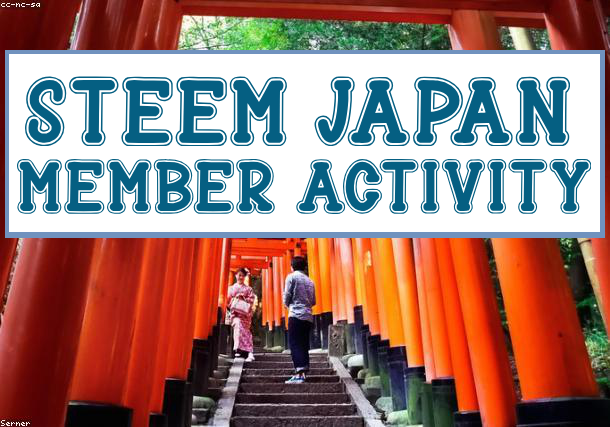
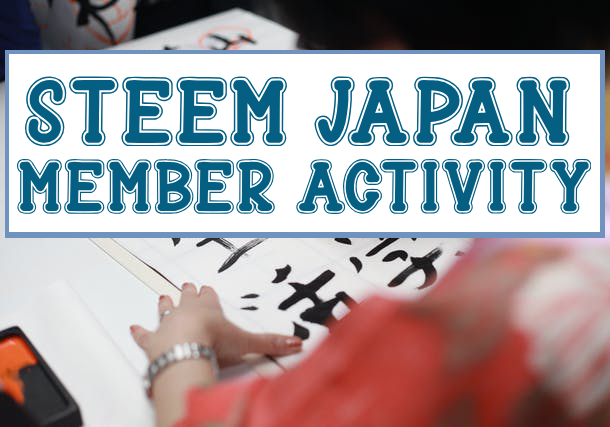
Change daily report image to use pexels.com API

diff --git a/tasks/steem_japan/steem_japan_report.py b/tasks/steem_japan/steem_japan_report.py
@@ -3,6 +3,8 @@ from datetime import datetime
 import os
 import urllib.request
 from PIL import Image
+import random
+from pexels_api import API
 
 from beem import Steem
 from beem.nodelist import NodeList
@@ -21,6 +23,8 @@ USERNAME = os.environ.get('USERNAME')
 STEEM = Steem(node=nodes, keys=[POST_KEY])
 set_shared_blockchain_instance(STEEM)
 IU = ImageUploader(blockchain_instance=STEEM)
+
+PEXELS_API_KEY = '563492ad6f917000010000016acbeee6e44d432392217f9f901098f4'
 
 
 def main():
@@ -99,7 +103,7 @@ def get_stats(discussions):
 
 
 def get_main_image():
-    # Download base image from loremflickr.com
+    # Download base image from pexels.com API
     # and store as report_base.png
 
     # Default Image URL
@@ -122,7 +126,22 @@ def get_main_image():
     opener.addheaders = [('User-Agent', user_agent)]
     urllib.request.install_opener(opener)
 
-    base_image_url = "https://loremflickr.com/610/427/japan"
+    # base_image_url = "https://loremflickr.com/610/427/japan"
+
+    # Pick a random page number
+    page_number = random.randint(1, 80)
+
+    # Search Japan image and access image data from pexels API
+    PEXELS_API = API(PEXELS_API_KEY)
+    PEXELS_API.search('japan', page=page_number, results_per_page=1)
+    photos = PEXELS_API.get_entries()
+
+    base_image_url = ''
+    image_params = '?auto=compress&cs=tinysrgb&fit=crop&h=427&w=610'
+    for photo in photos:
+        base_image_url = photo.landscape.split('?')[0]
+
+    base_image_url += image_params
 
     # Call urlretrieve function to get an image
     urllib.request.urlretrieve(base_image_url, f'{img_dir}/{base_img_file}')
@@ -144,7 +163,9 @@ def get_main_image():
     result = IU.upload(f'{img_dir}/{main_img_file}', USERNAME)
     img_url = result['url']
 
-    return img_url
+    return {
+        'url': img_url,
+        'src': base_image_url}
 
 
 def get_post_body(data):
@@ -177,7 +198,7 @@ def get_post_body(data):
     """
 
     for d in data['stats']:
-        avatar = f"<img src='https://steemitimages.com/u/{d}/avatar/small'>"
+        avatar = f"<img src='https://steemitimages.com/u/{d}/avatar/'>"
         member = d
         post = len(data['stats'][d]['posts'])
         comment = data['stats'][d]['comments']
@@ -185,8 +206,8 @@ def get_post_body(data):
         stats_table += f"|{avatar}|{member}|{post}|{comment}|{vote}|\n"
 
     body = f"""
-![]({main_image})
-[source](https://loremflickr.com)
+![]({main_image['url']})
+[source]({main_image['src']})
 
 #### [Steem Japan]({community_url}) 毎日の活動状況レポート
 コミュニティーに記事を投稿しているメンバーのアクティビティです。
